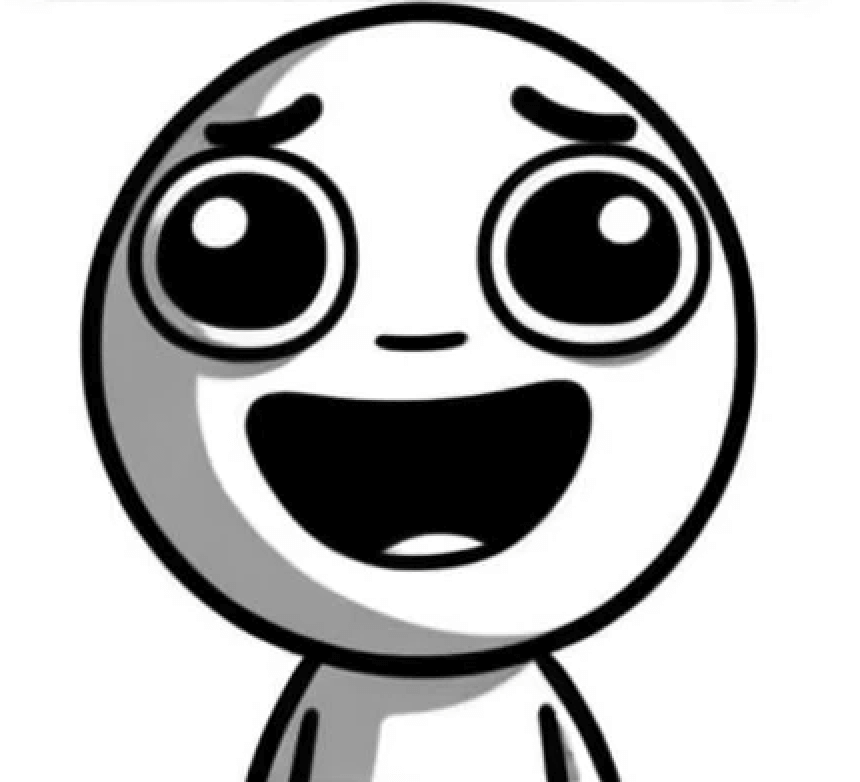
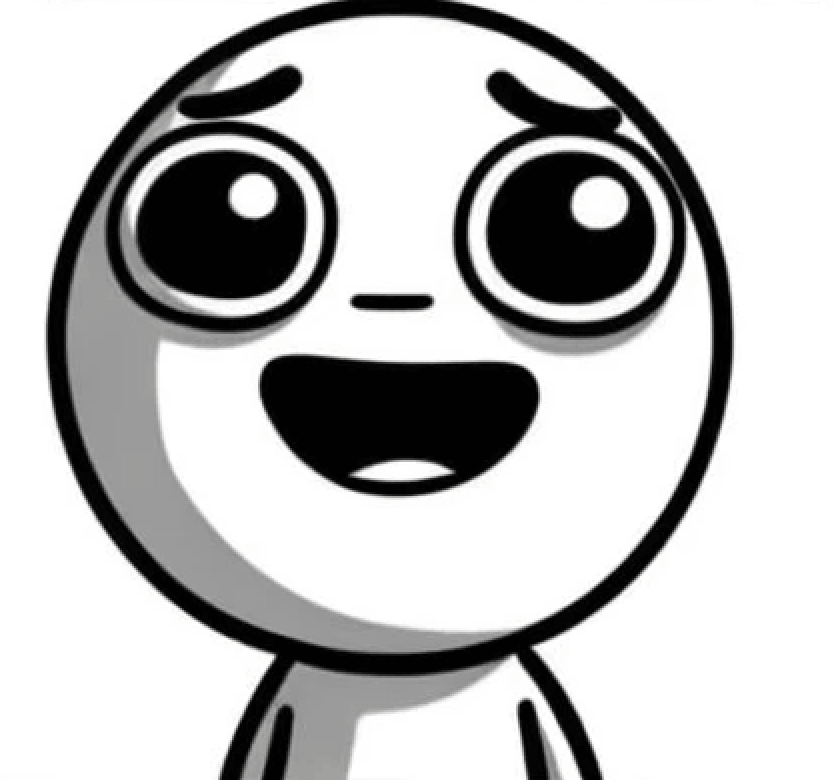
fix: update image based on month, update copy

Changed region(s): [[0.0312, 0.0, 0.9041, 1.0], [0.4053, 0.8923, 0.4676, 1.0], [0.717, 0.9846, 0.7482, 1.0]]

diff --git a/app/page.tsx b/app/page.tsx
@@ -240,7 +240,7 @@ export default function Home() {
                     <div className="flex justify-between items-center py-2">
                       <span className="text-right">Interest Rate (%):</span>
                       <span className="text-lg text-red-600">
-                        {result.interestRate.toFixed(3)}
+                        {result.interestRate.toFixed(2)}
                       </span>
                     </div>
                   </div>
@@ -276,8 +276,8 @@ export default function Home() {
                           <Image
                             src="/images/grief-two.png"
                             width={150}
-                            height={150}
-                            style={{ width: 150, height: 150 }}
+                            height={120}
+                            style={{ width: 150, height: 120 }}
                             alt="Cartoon meme griefing over the interest charged for 4.5%"
                             priority={true}
                           />
@@ -319,7 +319,7 @@ export default function Home() {
             <div>
               <div className="step-1 mb-5">
                 <h3 className="font-semibold mb-2">
-                  Step 1: Locate SPayLater Option on Shopee
+                  Step 1: Locate SPayLater Option on Shopee on Mobile App
                 </h3>
                 <p className="text-justify ">
                   Navigate to your desired product on Shopee. Scroll down to the
@@ -366,7 +366,8 @@ export default function Home() {
               <div className="flex justify-center mb-5">
                 <p className="text-center mt-4">
                   Thank you for using our PayLater Insight! We strive to make
-                  your online shopping experience more transparent and informed.
+                  your online shopping experience more <span className="font-bold">transparent </span>
+                  and <span className="font-bold">informed</span>.
                 </p>
               </div>
             </div>
@@ -376,7 +377,7 @@ export default function Home() {
         <footer className="footer flex justify-between mt-4 pb-5">
           <p className="text-sm">PayLater Insight © 2023 </p>
           <div className="flex gap-5">
-          <a
+            <a
               href="https://github.com/AzriZzz/spaylater-insight"
               rel="noopener noreferrer"
               target="_blank"
